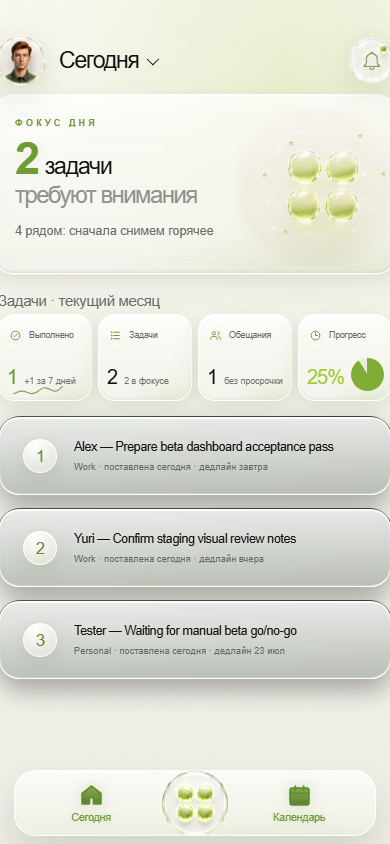
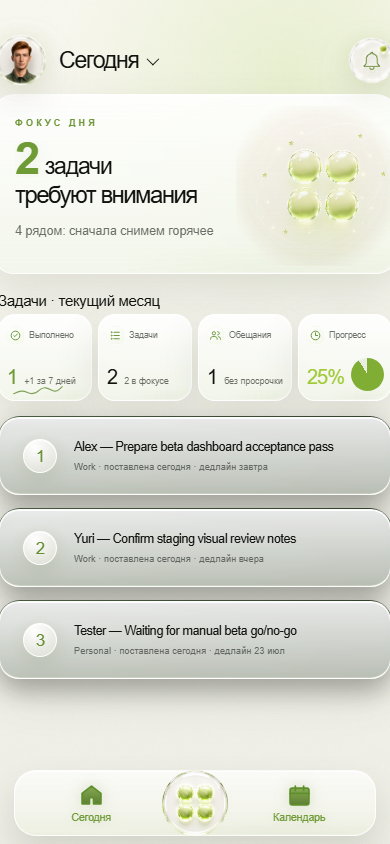
fix(design): restore light theme switch

Changed region(s): [[0.0308, 0.2156, 0.5231, 0.2464], [0.1538, 0.3389, 0.4, 0.3697], [0.0, 0.3389, 0.1231, 0.3697]]

diff --git a/styles.css b/styles.css
@@ -14555,3 +14555,158 @@ html[data-theme="dark"] body #home#home #home-task-list .home-ai-row-meta,
 body #home#home:not(.soft-light) #home-task-list .home-ai-row-meta {
   color: rgba(216, 226, 207, 0.68) !important;
 }
+/* 2026-07-21 THEME SWITCH FIX - data-theme is the source of truth */
+html[data-theme="light"] body,
+html[data-theme="light"] #app,
+html[data-theme="light"] .screen,
+html[data-theme="light"] .view,
+html[data-theme="light"] #home,
+html[data-theme="light"] #profile,
+html[data-theme="light"] #subscription,
+html[data-theme="light"] #task-detail {
+  background: #f8f7ef !important;
+  background-color: #f8f7ef !important;
+  color: #0b0f0c !important;
+  color-scheme: light !important;
+}
+html[data-theme="dark"] body,
+html[data-theme="dark"] #app,
+html[data-theme="dark"] #home,
+html[data-theme="dark"] #home .dash-artboard {
+  background: #000 !important;
+  background-color: #000 !important;
+  color-scheme: dark !important;
+}
+html[data-theme="light"] #home#home,
+html[data-theme="light"] #home#home .dash-artboard {
+  background: radial-gradient(circle at 72% 9%, rgba(177, 214, 98, 0.22), transparent 28%), linear-gradient(180deg, #f8f7ef 0%, #eeeee6 100%) !important;
+  background-color: #f8f7ef !important;
+  color: #0b0f0c !important;
+}
+html[data-theme="light"] #home#home .dash-statusbar,
+html[data-theme="dark"] #home#home .dash-statusbar {
+  display: none !important;
+  visibility: hidden !important;
+  height: 0 !important;
+  overflow: hidden !important;
+}
+html[data-theme="light"] #home#home .dash-title strong,
+html[data-theme="light"] #home#home .dash-hero-noun,
+html[data-theme="light"] #home#home .dash-hero-title,
+html[data-theme="light"] #home#home #home-section-title,
+html[data-theme="light"] #home#home .dash-month-title {
+  color: #11130f !important;
+}
+html[data-theme="light"] #home#home .dash-hero-subtitle,
+html[data-theme="light"] #home#home .dash-metric-head,
+html[data-theme="light"] #home#home .dash-metric-note {
+  color: rgba(39, 45, 39, 0.68) !important;
+}
+html[data-theme="light"] #home#home .dash-hero,
+html[data-theme="light"] #home#home .dash-metric,
+html[data-theme="light"] #home#home .home-ai-row-main {
+  background: linear-gradient(180deg, rgba(255, 255, 255, 0.9), rgba(242, 246, 235, 0.76)) !important;
+  border-color: rgba(255, 255, 255, 0.92) !important;
+  box-shadow: 0 18px 44px rgba(86, 92, 70, 0.14), inset 0 1px 0 rgba(255, 255, 255, 0.94) !important;
+}
+html[data-theme="light"] #home#home .dash-hero-orb,
+html[data-theme="light"] #home#home .dash-hero-orb::before,
+html[data-theme="light"] #home#home .dash-hero-orb::after,
+html[data-theme="light"] #home#home .dash-metric-icon,
+html[data-theme="light"] #home#home .dash-metric-icon::before,
+html[data-theme="light"] #home#home .dash-metric-icon::after,
+html[data-theme="light"] #home#home .dash-ring,
+html[data-theme="light"] #home#home .dash-ring::before,
+html[data-theme="light"] #home#home .dash-ring::after {
+  background-color: transparent !important;
+  border-color: transparent !important;
+  box-shadow: none !important;
+  filter: none !important;
+}
+html[data-theme="light"] #profile,
+html[data-theme="light"] #profile .profile-stage,
+html[data-theme="light"] #profile .profile-handoff-scroll {
+  background: linear-gradient(180deg, #f8f7ef 0%, #eeeee6 100%) !important;
+  color: #101411 !important;
+}
+html[data-theme="light"] #profile .profile-handoff-hero,
+html[data-theme="light"] #profile .profile-premium-card,
+html[data-theme="light"] #profile .profile-card,
+html[data-theme="light"] #profile .profile-referral-card {
+  background: linear-gradient(180deg, rgba(255, 255, 255, 0.9), rgba(242, 246, 235, 0.76)) !important;
+  border-color: rgba(255, 255, 255, 0.92) !important;
+  color: #101411 !important;
+}
+html[data-theme="light"] #profile .back-title,
+html[data-theme="light"] #profile .profile-name,
+html[data-theme="light"] #profile .profile-card-title,
+html[data-theme="light"] #profile .profile-menu-row,
+html[data-theme="light"] #profile .profile-data-row,
+html[data-theme="light"] #profile .profile-row-value,
+html[data-theme="light"] #profile .profile-row-input,
+html[data-theme="light"] #profile .profile-referral-card,
+html[data-theme="light"] #profile .profile-referral-card input {
+  color: #101411 !important;
+}
+html[data-theme="light"] #profile .profile-id,
+html[data-theme="light"] #profile .profile-row-label,
+html[data-theme="light"] #profile .premium-sub,
+html[data-theme="light"] #profile .profile-field-counter {
+  color: rgba(24, 31, 25, 0.62) !important;
+}
+html[data-theme="light"] #task-detail,
+html[data-theme="light"] #task-detail .detail-redesign-shell {
+  background: linear-gradient(180deg, #f8f7ef 0%, #eeeee6 100%) !important;
+  color: #0f2638 !important;
+}
+html[data-theme="light"] #task-detail .detail-redesign-hero,
+html[data-theme="light"] #task-detail .detail-participants-card,
+html[data-theme="light"] #task-detail .detail-status-card,
+html[data-theme="light"] #task-detail .detail-chat-card,
+html[data-theme="light"] #task-detail .detail-info-card,
+html[data-theme="light"] #task-detail .detail-ai-card,
+html[data-theme="light"] #task-detail .detail-comment-input {
+  background: linear-gradient(180deg, rgba(255, 255, 255, 0.88), rgba(242, 246, 235, 0.72)) !important;
+  border-color: rgba(255, 255, 255, 0.92) !important;
+  color: #123047 !important;
+  box-shadow: 0 18px 44px rgba(86, 92, 70, 0.13), inset 0 1px 0 rgba(255, 255, 255, 0.94) !important;
+}
+html[data-theme="light"] #task-detail .detail-redesign-title,
+html[data-theme="light"] #task-detail .task-hero-title,
+html[data-theme="light"] #task-detail .task-detail-title,
+html[data-theme="light"] #task-detail .detail-title {
+  color: #0d3048 !important;
+}
+html[data-theme="light"] #task-detail .detail-redesign-desc,
+html[data-theme="light"] #task-detail .task-hero-description,
+html[data-theme="light"] #task-detail .task-detail-description,
+html[data-theme="light"] #task-detail .detail-description,
+html[data-theme="light"] #task-detail .detail-comments-empty,
+html[data-theme="light"] #task-detail .detail-comment-input,
+html[data-theme="light"] #task-detail .detail-comment-input::placeholder {
+  color: rgba(18, 48, 71, 0.72) !important;
+}
+html[data-theme="light"] #task-detail .detail-round-btn,
+html[data-theme="light"] #task-detail .detail-avatar-add,
+html[data-theme="light"] #task-detail .detail-status-dot,
+html[data-theme="light"] #task-detail .detail-redesign-bell,
+html[data-theme="light"] #task-detail .detail-comment-send-btn {
+  background: radial-gradient(circle at 35% 25%, #f7ffe8, #d8f3ae 66%, #a9d35f) !important;
+  border-color: rgba(137, 184, 75, 0.35) !important;
+  color: #5f9a20 !important;
+  box-shadow: 0 12px 28px rgba(102, 137, 57, 0.18) !important;
+}
+html[data-theme="light"] #subscription,
+html[data-theme="light"] #subscription .subscription-screen,
+html[data-theme="light"] #subscription .subscription-stage {
+  background: linear-gradient(180deg, #f8f7ef 0%, #eeeee6 100%) !important;
+  color: #0b0f0c !important;
+}
+html[data-theme="light"] #subscription .subscription-card,
+html[data-theme="light"] #subscription .subscription-plan,
+html[data-theme="light"] #subscription .subscription-feature-card,
+html[data-theme="light"] #subscription .subscription-price-card {
+  background: linear-gradient(180deg, rgba(255, 255, 255, 0.9), rgba(242, 246, 235, 0.76)) !important;
+  border-color: rgba(255, 255, 255, 0.92) !important;
+  color: #0b0f0c !important;
+}

diff --git a/styles/screens/light-redesign.less b/styles/screens/light-redesign.less
@@ -3256,3 +3256,158 @@ html[data-theme="dark"] body #home#home #home-task-list .home-ai-row-meta,
 body #home#home:not(.soft-light) #home-task-list .home-ai-row-meta {
   color: rgba(216,226,207,.68) !important;
 }
+/* 2026-07-21 THEME SWITCH FIX - data-theme is the source of truth */
+html[data-theme="light"] body,
+html[data-theme="light"] #app,
+html[data-theme="light"] .screen,
+html[data-theme="light"] .view,
+html[data-theme="light"] #home,
+html[data-theme="light"] #profile,
+html[data-theme="light"] #subscription,
+html[data-theme="light"] #task-detail {
+  background: #f8f7ef !important;
+  background-color: #f8f7ef !important;
+  color: #0b0f0c !important;
+  color-scheme: light !important;
+}
+html[data-theme="dark"] body,
+html[data-theme="dark"] #app,
+html[data-theme="dark"] #home,
+html[data-theme="dark"] #home .dash-artboard {
+  background: #000 !important;
+  background-color: #000 !important;
+  color-scheme: dark !important;
+}
+html[data-theme="light"] #home#home,
+html[data-theme="light"] #home#home .dash-artboard {
+  background: radial-gradient(circle at 72% 9%, rgba(177,214,98,.22), transparent 28%), linear-gradient(180deg, #f8f7ef 0%, #eeeee6 100%) !important;
+  background-color: #f8f7ef !important;
+  color: #0b0f0c !important;
+}
+html[data-theme="light"] #home#home .dash-statusbar,
+html[data-theme="dark"] #home#home .dash-statusbar {
+  display: none !important;
+  visibility: hidden !important;
+  height: 0 !important;
+  overflow: hidden !important;
+}
+html[data-theme="light"] #home#home .dash-title strong,
+html[data-theme="light"] #home#home .dash-hero-noun,
+html[data-theme="light"] #home#home .dash-hero-title,
+html[data-theme="light"] #home#home #home-section-title,
+html[data-theme="light"] #home#home .dash-month-title {
+  color: #11130f !important;
+}
+html[data-theme="light"] #home#home .dash-hero-subtitle,
+html[data-theme="light"] #home#home .dash-metric-head,
+html[data-theme="light"] #home#home .dash-metric-note {
+  color: rgba(39,45,39,.68) !important;
+}
+html[data-theme="light"] #home#home .dash-hero,
+html[data-theme="light"] #home#home .dash-metric,
+html[data-theme="light"] #home#home .home-ai-row-main {
+  background: linear-gradient(180deg, rgba(255,255,255,.9), rgba(242,246,235,.76)) !important;
+  border-color: rgba(255,255,255,.92) !important;
+  box-shadow: 0 18px 44px rgba(86,92,70,.14), inset 0 1px 0 rgba(255,255,255,.94) !important;
+}
+html[data-theme="light"] #home#home .dash-hero-orb,
+html[data-theme="light"] #home#home .dash-hero-orb::before,
+html[data-theme="light"] #home#home .dash-hero-orb::after,
+html[data-theme="light"] #home#home .dash-metric-icon,
+html[data-theme="light"] #home#home .dash-metric-icon::before,
+html[data-theme="light"] #home#home .dash-metric-icon::after,
+html[data-theme="light"] #home#home .dash-ring,
+html[data-theme="light"] #home#home .dash-ring::before,
+html[data-theme="light"] #home#home .dash-ring::after {
+  background-color: transparent !important;
+  border-color: transparent !important;
+  box-shadow: none !important;
+  filter: none !important;
+}
+html[data-theme="light"] #profile,
+html[data-theme="light"] #profile .profile-stage,
+html[data-theme="light"] #profile .profile-handoff-scroll {
+  background: linear-gradient(180deg, #f8f7ef 0%, #eeeee6 100%) !important;
+  color: #101411 !important;
+}
+html[data-theme="light"] #profile .profile-handoff-hero,
+html[data-theme="light"] #profile .profile-premium-card,
+html[data-theme="light"] #profile .profile-card,
+html[data-theme="light"] #profile .profile-referral-card {
+  background: linear-gradient(180deg, rgba(255,255,255,.9), rgba(242,246,235,.76)) !important;
+  border-color: rgba(255,255,255,.92) !important;
+  color: #101411 !important;
+}
+html[data-theme="light"] #profile .back-title,
+html[data-theme="light"] #profile .profile-name,
+html[data-theme="light"] #profile .profile-card-title,
+html[data-theme="light"] #profile .profile-menu-row,
+html[data-theme="light"] #profile .profile-data-row,
+html[data-theme="light"] #profile .profile-row-value,
+html[data-theme="light"] #profile .profile-row-input,
+html[data-theme="light"] #profile .profile-referral-card,
+html[data-theme="light"] #profile .profile-referral-card input {
+  color: #101411 !important;
+}
+html[data-theme="light"] #profile .profile-id,
+html[data-theme="light"] #profile .profile-row-label,
+html[data-theme="light"] #profile .premium-sub,
+html[data-theme="light"] #profile .profile-field-counter {
+  color: rgba(24,31,25,.62) !important;
+}
+html[data-theme="light"] #task-detail,
+html[data-theme="light"] #task-detail .detail-redesign-shell {
+  background: linear-gradient(180deg, #f8f7ef 0%, #eeeee6 100%) !important;
+  color: #0f2638 !important;
+}
+html[data-theme="light"] #task-detail .detail-redesign-hero,
+html[data-theme="light"] #task-detail .detail-participants-card,
+html[data-theme="light"] #task-detail .detail-status-card,
+html[data-theme="light"] #task-detail .detail-chat-card,
+html[data-theme="light"] #task-detail .detail-info-card,
+html[data-theme="light"] #task-detail .detail-ai-card,
+html[data-theme="light"] #task-detail .detail-comment-input {
+  background: linear-gradient(180deg, rgba(255,255,255,.88), rgba(242,246,235,.72)) !important;
+  border-color: rgba(255,255,255,.92) !important;
+  color: #123047 !important;
+  box-shadow: 0 18px 44px rgba(86,92,70,.13), inset 0 1px 0 rgba(255,255,255,.94) !important;
+}
+html[data-theme="light"] #task-detail .detail-redesign-title,
+html[data-theme="light"] #task-detail .task-hero-title,
+html[data-theme="light"] #task-detail .task-detail-title,
+html[data-theme="light"] #task-detail .detail-title {
+  color: #0d3048 !important;
+}
+html[data-theme="light"] #task-detail .detail-redesign-desc,
+html[data-theme="light"] #task-detail .task-hero-description,
+html[data-theme="light"] #task-detail .task-detail-description,
+html[data-theme="light"] #task-detail .detail-description,
+html[data-theme="light"] #task-detail .detail-comments-empty,
+html[data-theme="light"] #task-detail .detail-comment-input,
+html[data-theme="light"] #task-detail .detail-comment-input::placeholder {
+  color: rgba(18,48,71,.72) !important;
+}
+html[data-theme="light"] #task-detail .detail-round-btn,
+html[data-theme="light"] #task-detail .detail-avatar-add,
+html[data-theme="light"] #task-detail .detail-status-dot,
+html[data-theme="light"] #task-detail .detail-redesign-bell,
+html[data-theme="light"] #task-detail .detail-comment-send-btn {
+  background: radial-gradient(circle at 35% 25%, #f7ffe8, #d8f3ae 66%, #a9d35f) !important;
+  border-color: rgba(137,184,75,.35) !important;
+  color: #5f9a20 !important;
+  box-shadow: 0 12px 28px rgba(102,137,57,.18) !important;
+}
+html[data-theme="light"] #subscription,
+html[data-theme="light"] #subscription .subscription-screen,
+html[data-theme="light"] #subscription .subscription-stage {
+  background: linear-gradient(180deg, #f8f7ef 0%, #eeeee6 100%) !important;
+  color: #0b0f0c !important;
+}
+html[data-theme="light"] #subscription .subscription-card,
+html[data-theme="light"] #subscription .subscription-plan,
+html[data-theme="light"] #subscription .subscription-feature-card,
+html[data-theme="light"] #subscription .subscription-price-card {
+  background: linear-gradient(180deg, rgba(255,255,255,.9), rgba(242,246,235,.76)) !important;
+  border-color: rgba(255,255,255,.92) !important;
+  color: #0b0f0c !important;
+}

diff --git a/DEVELOPMENT_LOG.md b/DEVELOPMENT_LOG.md
@@ -1715,3 +1715,15 @@
 **Тест:** `npm run build:css`; `npm run smoke:home001` → ok=true, homeRows=3, metricCards=4, bottomNavButtons=3, documentScrollWidth=390; визуально проверены light/dark smoke screenshots.
 
 **Коммит:** pending
+
+## 2026-07-21
+
+### Light theme switch fix after soft-glass polish
+
+**Что сделано:** добавлен финальный CSS-слой, где `html[data-theme="light"]` принудительно включает светлые цвета для dashboard/profile/subscription/task-detail, а dark-override больше не срабатывает от отсутствия `.soft-light`.
+
+**Проверка кодировки:** `node scripts/check-cp1251-mojibake.mjs` → 0 suspicious tokens.
+
+**Тест:** `npm run build:css`; `npm run smoke:home001` → ok=true, homeRows=3, metricCards=4, bottomNavButtons=3, documentScrollWidth=390; визуально проверен light smoke screenshot.
+
+**Коммит:** pending

diff --git a/shared/WORK_LOG.md b/shared/WORK_LOG.md
@@ -9447,3 +9447,11 @@
 **Коммит:** pending
 **Статус:** ✅ выполнено локально, smoke зелёный
 **Следующий шаг:** проверить на staging/Telegram после деплоя ветки.
+
+### 2026-07-21 — Codex
+
+**Задача:** исправить конфликт переключения светлой темы после mobile soft-glass фикса.
+**Результат:** light/dark теперь завязаны на `html[data-theme]` как единственный источник истины; светлая тема принудительно применяет светлые фоны/карточки/текст для home, profile, subscription и task-detail, dark остаётся чёрным только при `data-theme="dark"`.
+**Коммит:** pending
+**Статус:** ✅ выполнено локально, smoke зелёный
+**Следующий шаг:** проверить branch preview с cache-bust после деплоя.